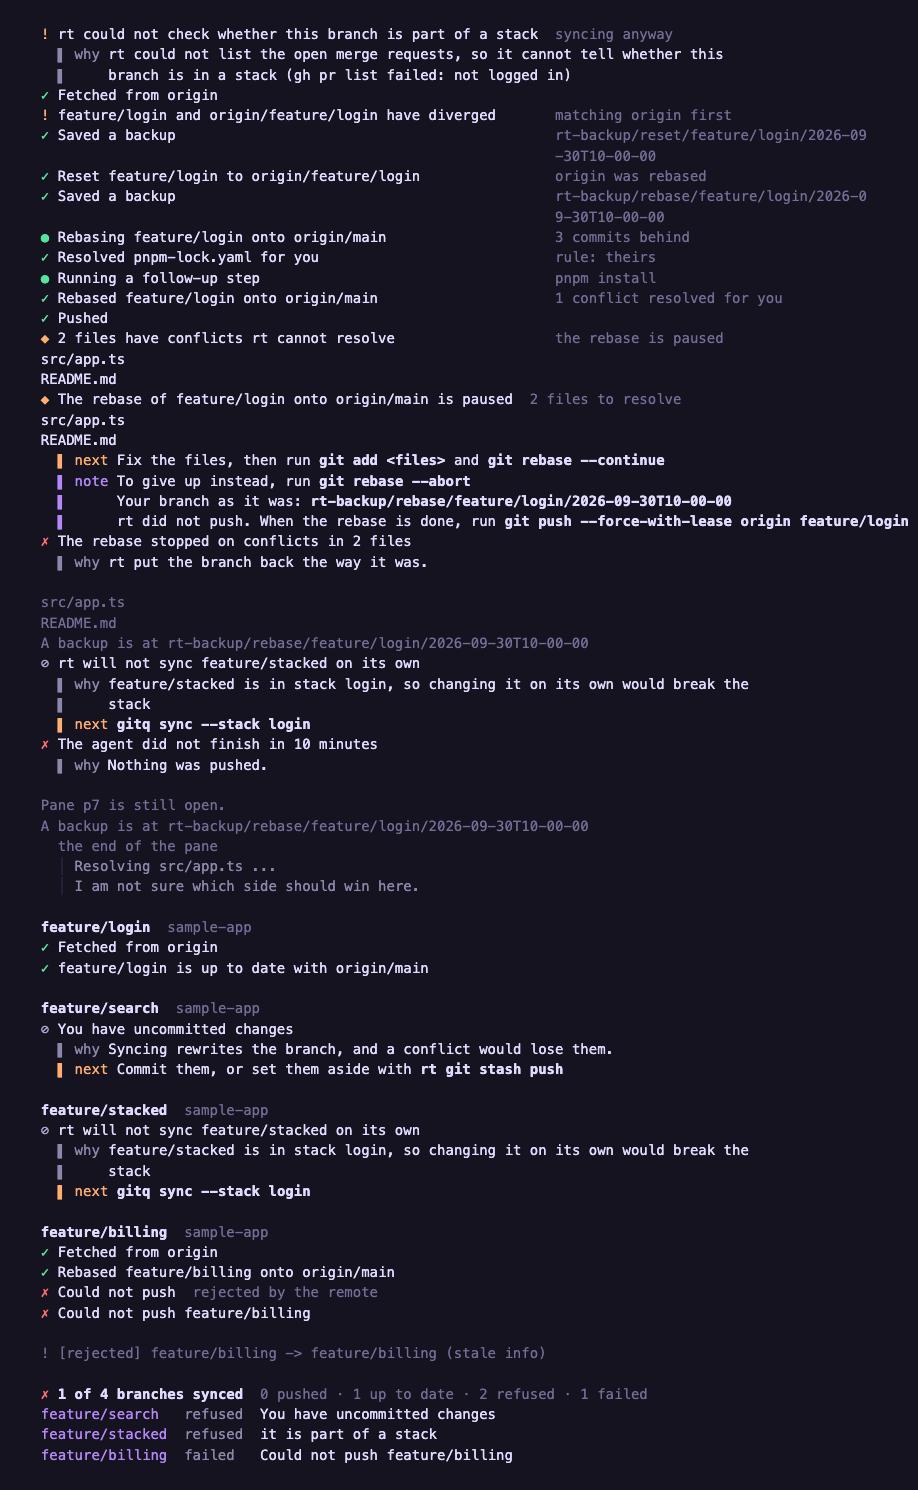
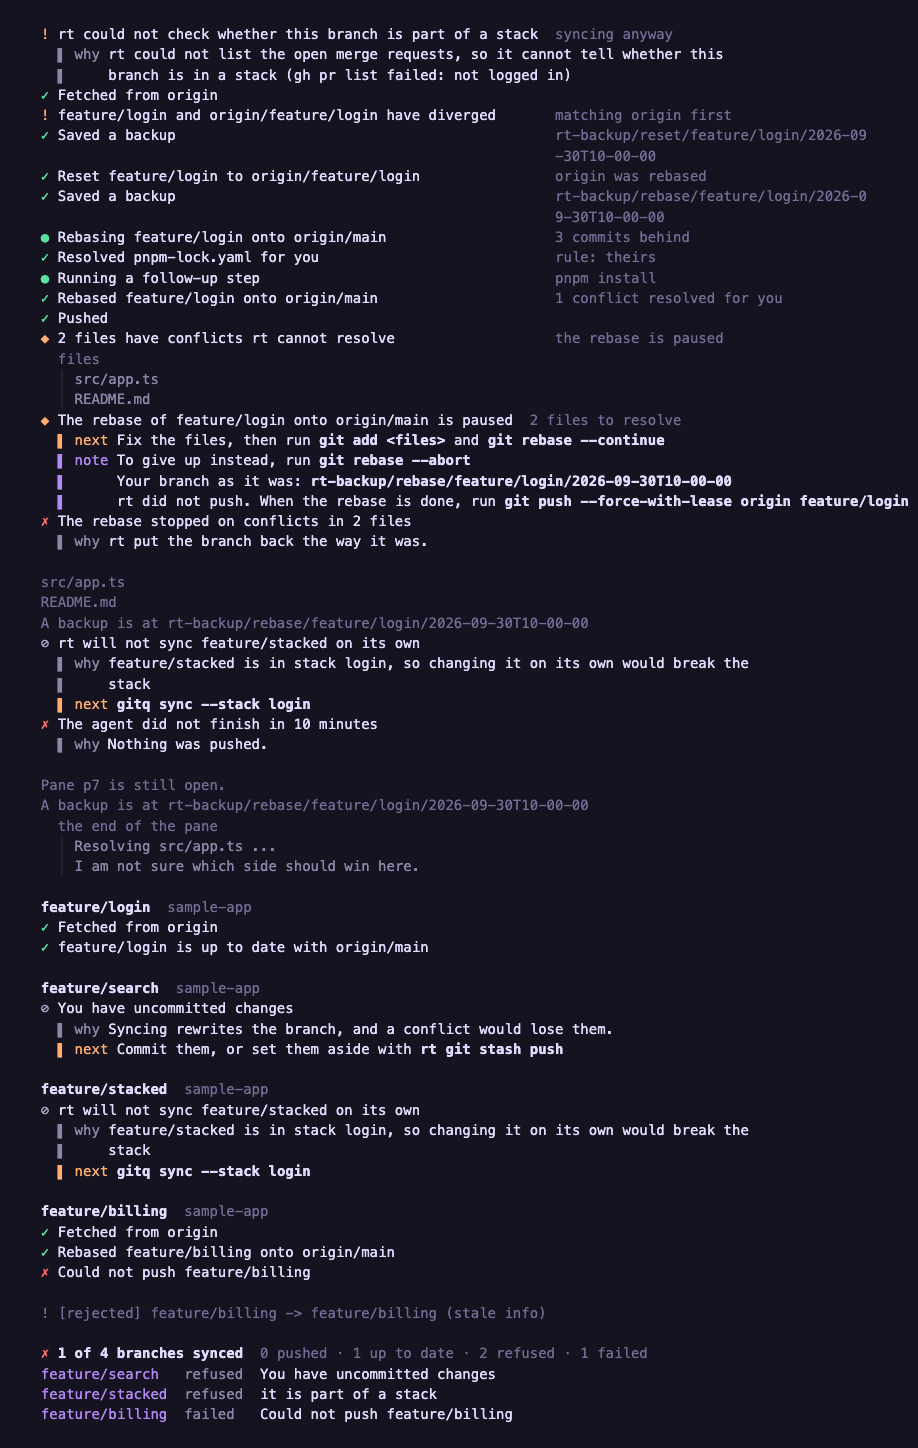
docs: re-render sync after the review fixes

diff --git a/docs/design/output-layer/README.md b/docs/design/output-layer/README.md
@@ -22,7 +22,7 @@ on a dark and a light terminal background.
 | `diff-dark.png`, `diff-light.png` | `rt git diff` at 80 columns: two hunks with a long deleted line, and a binary file. The light page is rendered with `COLORFGBG=0;15` |
 | `plugins-hooks-dark.png`, `plugins-hooks-light.png` | `rt plugin`, `tools`, `deps`, `hooks` and `intercept` at 100 columns: a scaffold with a failed install, the plugin list and a failed validate, two load warnings, tool results, a failure and a refusal, hooks on and off, and intercept status with a current, a stale and a not-yet-installed shim |
 | `5e1-team-dark.png`, `5e1-team-light.png` | `rt team` at 100 columns: create, status, an invite with manual steps, two joins, members sync and remove, a switchboard warning, a refusal, a daemon failure and a usage failure |
-| `sync-dark.png`, `sync-light.png` | `rt sync` at 100 columns: the stack warning, a reset and a rebase with a resolved conflict, a paused conflict with the manual report, the conflict failure, the stack refusal, an agent that timed out, and `sync all` with four branches (two refused and one failed, each ending under its heading) and its summary |
+| `sync-dark.png`, `sync-light.png` | `rt sync` at 100 columns: the stack warning, a reset and a rebase with a resolved conflict, a paused conflict with its files listed once under a caption, then the manual report, the conflict failure, the stack refusal, an agent that timed out, and `sync all` with four branches (two refused and one failed push, which shows only its ending, each under its heading) and its summary |
 
 The light pages are rendered with `COLORFGBG=0;15`, which is how a light
 terminal that reports its background gets the pale diff tints. A light
@@ -53,21 +53,22 @@ circles) and the purple `kv` keys are faint. The settings, errors
 and setup pages predate the hint wrap, the words-only wrap and the
 `StaticRule` tone, and show the older drawing.
 
-In the sync renders, a list of conflicted files (under the paused line and
-inside the manual report) is a one-column table with no header, so it sits
-flush with the status glyphs and reads as stray output rather than part of
-the line above it. A failure's `details` follow a blank row in dim with no
-rail, so the files and backup under the conflict failure, and git's own
-`! [rejected]` line under a failed push, read as separate output; that git
-line also starts with `!`, which reads as the warn glyph. A branch whose push
-fails under `sync all` shows two coral lines that say nearly the same thing
-(the step's `Could not push` and the ending's `Could not push <branch>`). A
-backup ref in the hint column hard-breaks mid-word when a longer title above
-sets the column, so it cannot be copied whole. In the `sync all` summary the
-status words `refused` and `failed` are dim, not tinted, and on a light
-terminal the lavender branch names are weak. A section heading draws its
-branch in bold body text, while the summary below draws the same branch in
-lavender.
+In the sync renders, the conflicted files under the paused line sit under a
+dim `files` caption on a rail, listed once (the manual report no longer
+repeats them), so they read as part of the line above. The conflict
+failure's `details` (the files and the backup ref) still follow a blank row
+in dim with no rail and read as separate output, and the `verbatim` rail
+and caption for the end of the pane are faint on dark. Under `sync all`, a
+failed push now shows no step line, only the ending `Could not push
+feature/billing`, but git's own `! [rejected]` line sits after a blank row,
+dim and detached from that ending, and starts with `!`, which reads as the
+warn glyph. A backup ref in the hint column hard-breaks mid-word when a
+longer title above sets the column, so it cannot be copied whole. `Rebasing`
+and `Running a follow-up step` keep a mint dot after they finish. In the
+`sync all` summary the status words `refused` and `failed` are dim, not
+tinted, and on a light terminal the lavender branch names are weak. A
+section heading draws its branch in bold body text, while the summary below
+draws the same branch in lavender.
 
 To regenerate: write the hello line and the fixture blocks as NDJSON, pipe them
 through `ui/dist/rt-ui render --width 80` with `COLORTERM=truecolor`, and view
